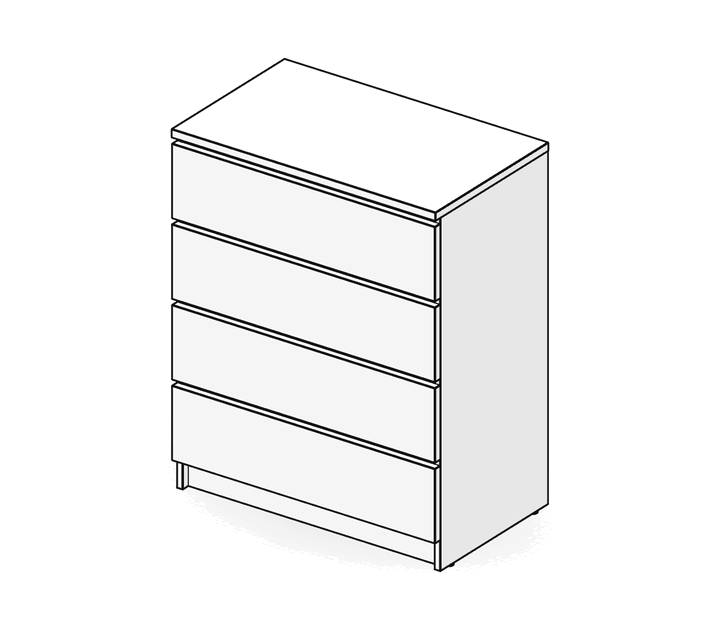
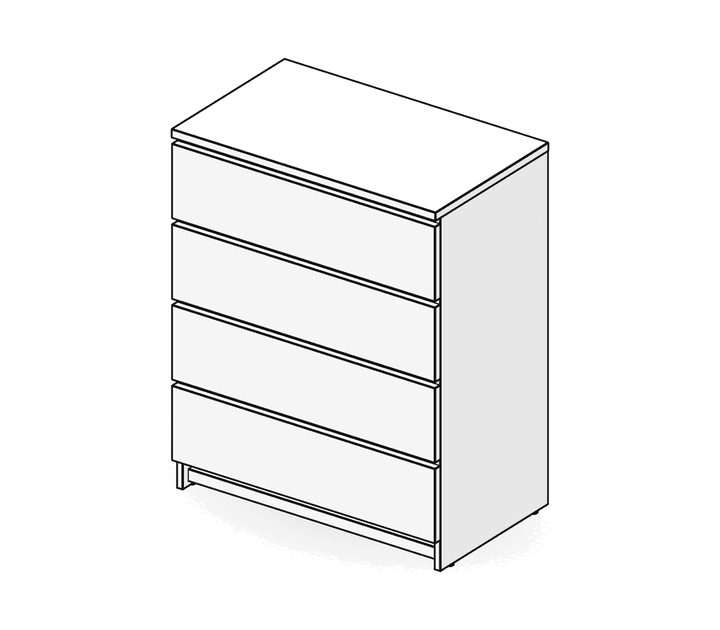
LIMFJORDEN chests: rails lie 60 face down, drawers sit 30 mm up their fronts
The manuals print "This side down" on the rails' 60 mm face, so they are 32 tall and 60 deep. Standing on edge they filled the gap under each drawer and the cabinet runners ran through them. The drawer boxes sat 3 mm up their fronts, which put the bottom runners inside the plinth; the fronts' cam bolt holes put them about 30 mm up. Both chests now have no rail, plinth or runner clashes.

Changed region(s): [[0.2444, 0.754, 0.6111, 0.9048]]

diff --git a/src/lib/plan/families/limfjorden-chest.ts b/src/lib/plan/families/limfjorden-chest.ts
@@ -38,13 +38,18 @@ const GL = 7; // the glides lift the sides: 7 + 977 + 22 = 1006
 const TY = GL + 977; // underside of the top
 const SX = 392, XI = 384; // side centres and inner faces: 768 between, 800 over the sides, the top 802
 const ZF = 218, ZB = -240; // front and back edges of the sides (458 deep); fronts 22 in front, flush with the top
-const RZ = ZF - 24 - 16; // rails stand 24 mm in from the front edge, 32 deep
+const RZ = ZF - 24 - 16; // the 3 + 3 chest's front plinth: 24 mm in from the front edge
+// the rails (768 or 778 x 60 x 32) lie with their 60 face down ("This side down"): 60 deep, 32 tall, so a
+// cabinet runner fits between a rail and the drawer above it
+const R4Z = ZF - 24 - 30;
 const PZ = ZB + 2.5 + 8; // the plinth stands at the back, against the back panel
 const n = 4;
 const fb = (i: number) => 92 + 223 * i; // bottom of drawer front i (205 high, 18 mm finger-grip gap above)
-const yb = (i: number) => fb(i) + 3; // underside of drawer box i
-// rail centres: one at the bottom, one under each drawer above, one under the top
-const railY = [GL + 30, ...range(n - 1).map((i) => yb(i) + 160 + 31), TY - 30];
+// underside of drawer box i: the front's cam bolt holes sit about 68 mm up it (the manual's parts page), so the box
+// starts about 30 mm up the front, and the bottom runners clear the plinth
+const yb = (i: number) => fb(i) + 30;
+// rail centres: one at the bottom, one under each drawer above (below its runners, above the drawer under it), one under the top
+const railY = [GL + 30, ...range(n - 1).map((i) => yb(i + 1) - 42), TY - 16];
 const XS = 365; // drawer side centres: 718 back + 2 x 12 sides, 13 mm each side for the runners
 const DZB = ZF - 450; // back ends of the drawer sides
 const DBZ = DZB + 6; // drawer back centre
@@ -128,13 +133,13 @@ function build4(b: PlanBuilder) {
   const sides = [b.place(sideT("Left side", "1"), [-SX, GL + 977 / 2, (ZF + ZB) / 2]), b.place(sideT("Right side", "2"), [SX, GL + 977 / 2, (ZF + ZB) / 2])];
   const top = b.place(b.part("Top", [802, 22, 480], { label: "3" }), [0, TY + 11, 0]);
   const plinth = b.place(b.part("Plinth", [768, 88, 16], { label: "4" }), [0, GL + 44, PZ]);
-  const railT = b.part("Rail", [768, 60, 32], { label: "5a" });
-  const rails = railY.map((y) => b.place(railT, [0, y, RZ]));
+  const railT = b.part("Rail", [768, 32, 60], { label: "5a" });
+  const rails = railY.map((y) => b.place(railT, [0, y, R4Z]));
   // ponytail: the back folds in two along its middle; drawn as one board, in rebates 11 mm into the sides, top and plinth
   const back = b.place(b.part("Back panel", [790, 935, 2.5], { material: "fiber", label: "11" }), [0, TY + 11 - 935 / 2, ZB + 1.25]);
 
   // a side's joints: cam bolt in the side, dowel in the rail or plinth end, cam lock in the rail or plinth face
-  const railJ = rails.map((k, j): Joint => ({ key: k, bolt: [railY[j], RZ - 8], dowel: [railY[j], RZ + 8], cam: (g) => ({ on: k, at: [g * (XI - 25), railY[j], RZ - 16], dir: [0, 0, 1] }) }));
+  const railJ = rails.map((k, j): Joint => ({ key: k, bolt: [railY[j], R4Z - 22], dowel: [railY[j], R4Z + 10], cam: (g) => ({ on: k, at: [g * (XI - 25), railY[j], R4Z - 30], dir: [0, 0, 1] }) }));
   const plinthJ: Joint[] = [{ key: plinth, bolt: [GL + 50, PZ], dowel: [GL + 18, PZ], cam: (g) => ({ on: plinth, at: [g * (XI - 25), GL + 50, PZ + 8], dir: [0, 0, -1] }) }];
   const joints = [...railJ, ...plinthJ];
   const { dowels, cams, prepSide } = sideKit(b, { sides, top, sx: SX, xi: XI, ty: TY, rows: n, joints: () => joints, screws: "" });
@@ -147,7 +152,7 @@ function build4(b: PlanBuilder) {
     { title: "Tap a dowel into each end of the five rails", detail: "8 mm dowels, one in each end.", tools: ["hammer"], scene: "rails", kind: "dowels" },
     () => {
       b.stagger(0.12);
-      rails.forEach((k, i) => b.stage(k, [0, 16, (i - 2) * 120], [Math.PI / 2, 0, 0], [0, 120, 0]));
+      rails.forEach((k, i) => b.stage(k, [0, 16, (i - 2) * 120], [0, 0, 0], [0, 120, 0]));
       b.then(0.15);
       b.fits(A, dowels(railJ), 0.05);
     },
@@ -307,9 +312,10 @@ function build33(b: PlanBuilder) {
   const sides = [b.place(sideT("Left side", "1"), [-SX3, GL + 377, (ZF + ZB) / 2]), b.place(sideT("Right side", "3"), [SX3, GL + 377, (ZF + ZB) / 2])];
   const mid = b.place(b.part("Middle panel", [16, 666, 454], { label: "2" }), [0, TY3 - 333, ZF - 227]);
   const top = b.place(b.part("Top", [1606, 22, 480], { label: "4" }), [0, TY3 + 11, 0]);
-  const railT = b.part("Rail", [778, 60, 32], { label: "5" });
-  const ry = [yb(0) + 191, yb(1) + 191, TY3 - 30];
-  const rails = [0, 1].map((si) => ry.map((y) => b.place(railT, [sg(si) * (MX + 389), y, RZ])));
+  // rails like the 4 drawer chest's: 60 face down, under each upper drawer's runners and under the top
+  const railT = b.part("Rail", [778, 32, 60], { label: "5" });
+  const ry = [yb(1) - 42, yb(2) - 42, TY3 - 16];
+  const rails = [0, 1].map((si) => ry.map((y) => b.place(railT, [sg(si) * (MX + 389), y, R4Z])));
   const plinth = b.place(b.part("Plinth", [1572, 88, 16], { label: "12" }), [0, GL + 44, RZ + 8]);
   const foot = b.place(b.part("Middle foot", [370, 72, 16], { label: "13" }), [0, GL + 36, FZ]);
   const backRail = b.place(b.part("Back rail", [1572, 16, 88], { label: "14" }), [0, BRY, BRZ]);
@@ -319,7 +325,7 @@ function build33(b: PlanBuilder) {
 
   // a side's joints: cam bolt in the side, dowel and cam lock in the rail, plinth or back rail
   const joint = (key: string, bolt: number[], dowel: number[], cam: (g: number) => FitOpts): Joint => ({ key, bolt, dowel, cam });
-  const railJ = (si: number) => rails[si].map((k, j) => joint(k, [ry[j], RZ - 8], [ry[j], RZ + 8], (g) => ({ on: k, at: [g * (XI3 - 25), ry[j], RZ - 16], dir: [0, 0, 1] })));
+  const railJ = (si: number) => rails[si].map((k, j) => joint(k, [ry[j], R4Z - 22], [ry[j], R4Z + 10], (g) => ({ on: k, at: [g * (XI3 - 25), ry[j], R4Z - 30], dir: [0, 0, 1] })));
   const plinthJ = joint(plinth, [GL + 50, RZ + 8], [GL + 18, RZ + 8], (g) => ({ on: plinth, at: [g * (XI3 - 25), GL + 50, RZ], dir: [0, 0, 1] }));
   const backJ = joint(backRail, [BRY, BRZ - 20], [BRY, BRZ + 22], (g) => ({ on: backRail, at: [g * (XI3 - 25), BRY + 8, BRZ - 20], dir: [0, -1, 0] }));
   const joints = (si: number) => [...railJ(si), plinthJ, backJ];
@@ -339,7 +345,7 @@ function build33(b: PlanBuilder) {
       { title: `Tap a dowel into one end of the three ${lr(si)} rails`, detail: "8 mm dowels, in the end that goes against the side.", tools: ["hammer"], scene: "rails", kind: "dowels" },
       () => {
         b.stagger(0.12);
-        rails[si].forEach((k, i) => b.stage(k, [0, 16, (i - 1) * 120], [Math.PI / 2, 0, 0], [0, 120, 0]));
+        rails[si].forEach((k, i) => b.stage(k, [0, 16, (i - 1) * 120], [0, 0, 0], [0, 120, 0]));
         b.then(0.15);
         b.fits(A, dowels(railJ(si), [si]), 0.05);
       },
@@ -424,11 +430,11 @@ function build33(b: PlanBuilder) {
       kind: "cams",
     },
     () => {
-      b.fits(C60, ry.map((y) => ({ on: mid, at: [18, y, RZ + 8], dir: [1, 0, 0] as Vec3, hole: false })), 0.1);
+      b.fits(C60, ry.map((y) => ({ on: mid, at: [18, y, R4Z + 10], dir: [1, 0, 0] as Vec3, hole: false })), 0.1);
       b.then(0.1);
-      b.fits(K, ry.map((y) => ({ on: mid, at: [-31, y, RZ - 8], dir: [-1, 0, 0] as Vec3, hole: false })), 0.1);
+      b.fits(K, ry.map((y) => ({ on: mid, at: [-31, y, R4Z - 22], dir: [-1, 0, 0] as Vec3, hole: false })), 0.1);
       b.then(0.1);
-      b.fits(F, ry.map((y, j) => ({ on: rails[0][j], at: [-MX - 33, y, RZ - 16], dir: [0, 0, 1] as Vec3 })), 0.12);
+      b.fits(F, ry.map((y, j) => ({ on: rails[0][j], at: [-MX - 33, y, R4Z - 30], dir: [0, 0, 1] as Vec3 })), 0.12);
     },
   );
   railDowels(1);
@@ -438,7 +444,7 @@ function build33(b: PlanBuilder) {
       b.stagger(0.2);
       for (const k of rails[1]) b.add(k, [300, 0, 0]);
       b.then(0.15);
-      b.fits(F, ry.map((y, j) => ({ on: rails[1][j], at: [MX + 33, y, RZ - 16], dir: [0, 0, 1] as Vec3 })), 0.12);
+      b.fits(F, ry.map((y, j) => ({ on: rails[1][j], at: [MX + 33, y, R4Z - 30], dir: [0, 0, 1] as Vec3 })), 0.12);
     },
   );
 
